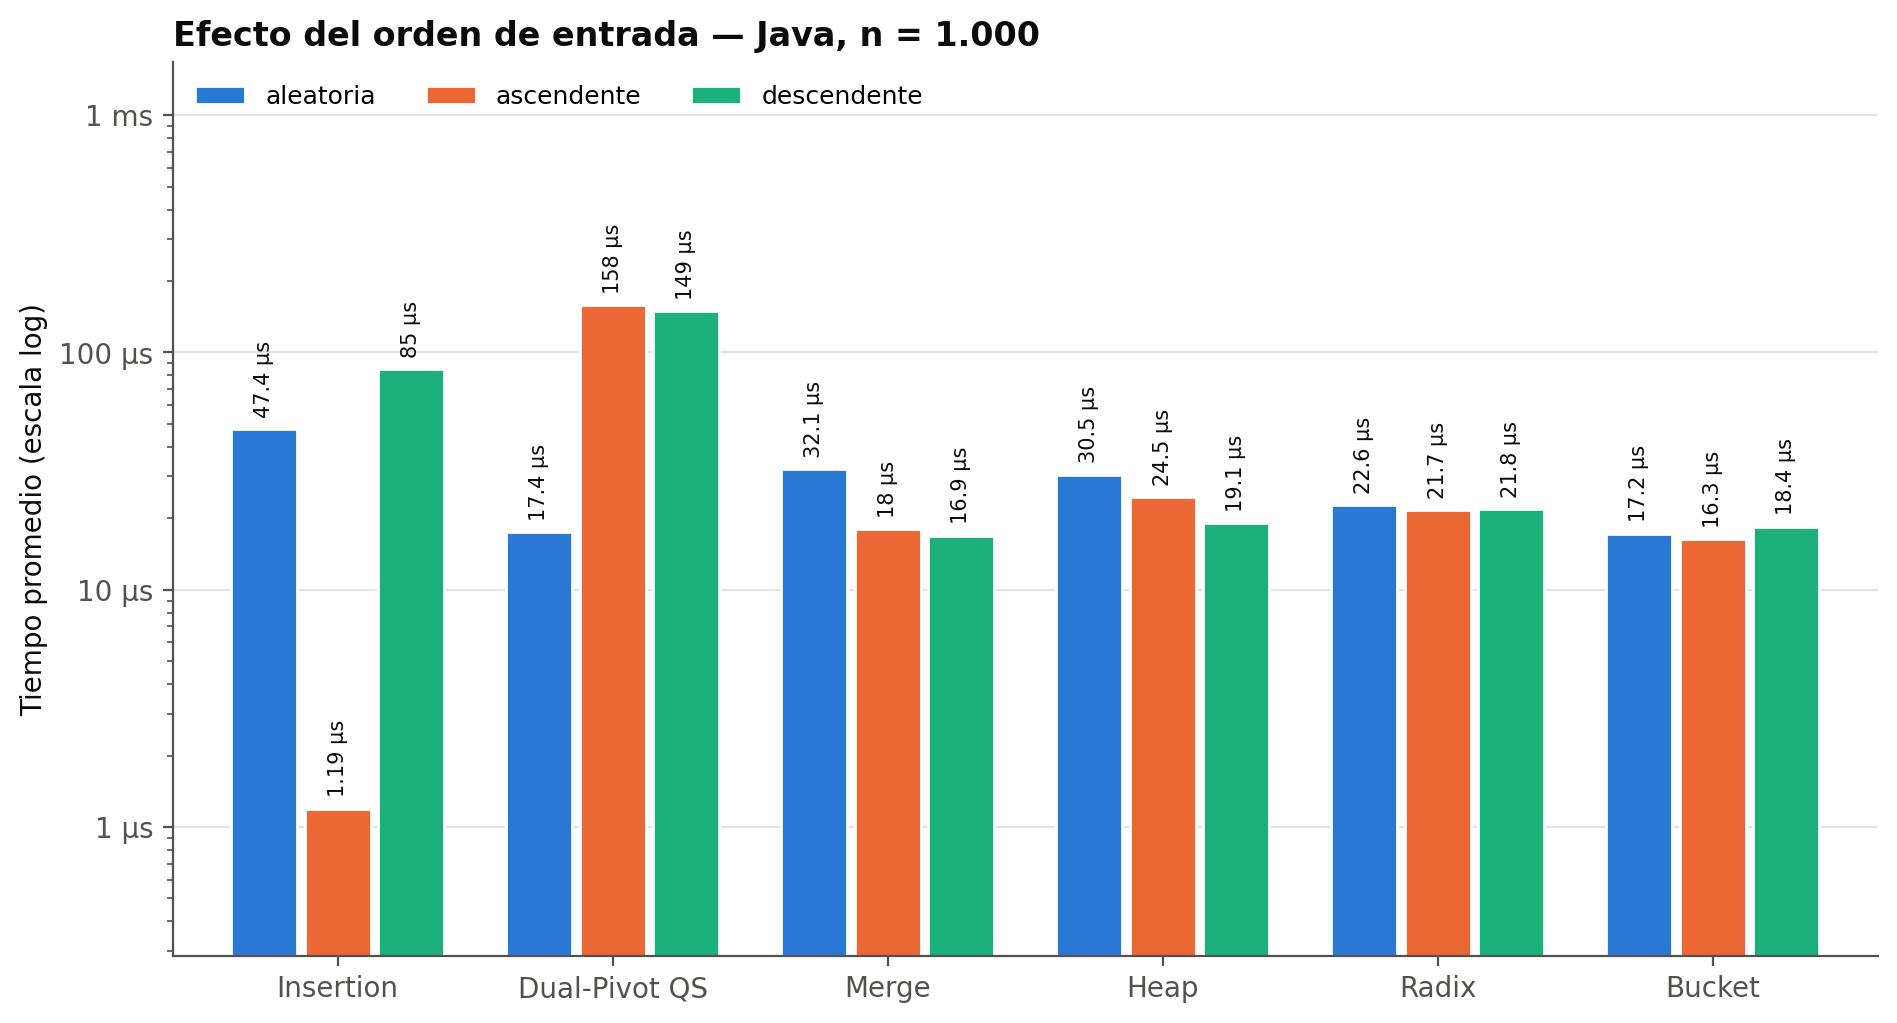
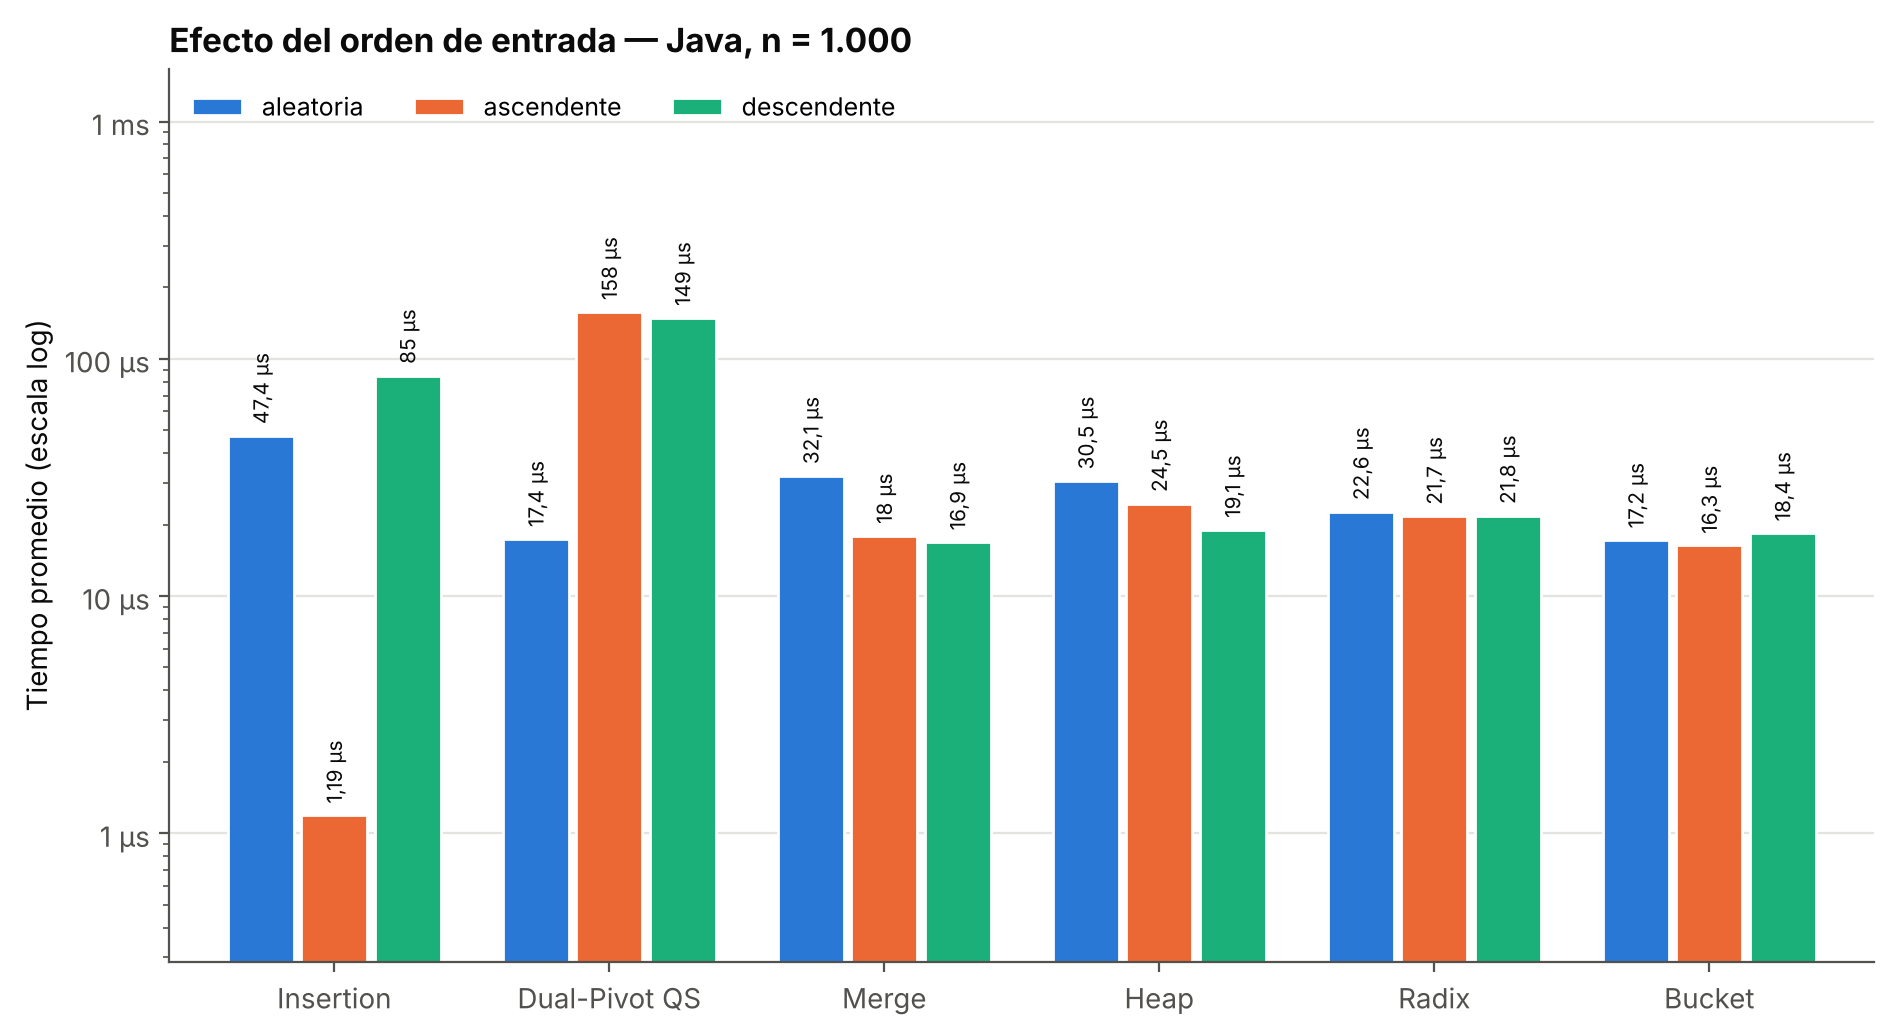
Correcciones de la auditoría al punto 1

diff --git a/python/taller3/generate_data.py b/python/taller3/generate_data.py
@@ -5,7 +5,7 @@ Generador ÚNICO de los datos de prueba (se ejecuta una sola vez).
     python3 -m taller3.generate_data            # genera data/ si no existe
     python3 -m taller3.generate_data --force    # regenera (sobrescribe)
 
-Decisiones de diseño (documéntalas en el informe):
+Decisiones de diseño:
 - Un solo generador para ambos lenguajes: Java NO genera datos, solo los lee.
   Así es imposible que Java y Python midan con conjuntos distintos.
 - Semilla fija (config.SEED) con random.Random (Mersenne Twister), que es
@@ -50,7 +50,7 @@ def main() -> int:
                 if dataset_path(v, n).exists()]
     if existing and not args.force:
         print(f"Los datos ya existen en {config.DATA_DIR} ({len(existing)} archivos).")
-        print("Los datos se generan UNA sola vez. Usa --force solo si de verdad quieres regenerarlos.")
+        print("Los datos se generan una sola vez; para regenerarlos hay que pasar --force.")
         return 0
 
     max_n = max(config.SIZES)

diff --git a/python/taller3/plot_sort.py b/python/taller3/plot_sort.py
@@ -89,15 +89,18 @@ def lookup(rows: list[dict]) -> dict[tuple, dict]:
 
 # ------------------------------------------------------------- formato
 def fmt_time(s: float) -> str:
+    """Tiempo legible con coma decimal, como en el informe (p. ej. 1,37 s)."""
     if s < 1e-3:
-        return f"{s * 1e6:.3g} µs"
-    if s < 1:
-        return f"{s * 1e3:.3g} ms"
-    if s < 120:
-        return f"{s:.3g} s"
-    if s < 7200:
-        return f"{s / 60:.3g} min"
-    return f"{s / 3600:.3g} h"
+        txt = f"{s * 1e6:.3g} µs"
+    elif s < 1:
+        txt = f"{s * 1e3:.3g} ms"
+    elif s < 120:
+        txt = f"{s:.3g} s"
+    elif s < 7200:
+        txt = f"{s / 60:.3g} min"
+    else:
+        txt = f"{s / 3600:.3g} h"
+    return txt.replace(".", ",")
 
 
 def fmt_n(n: int) -> str:

diff --git a/README.md b/README.md
@@ -71,12 +71,12 @@ java -Xms2g -Xmx2g -cp java/out taller3.bench.SortBenchmark          # benchmark
 (cd python && python3 -m taller3.plot_sort)                           # gráficas
 ```
 
-**Duración esperada.** En la máquina donde se validó el flujo (nube, 2 vCPU) la corrida
-completa tomó ≈ 18 min en Java y ≈ 27 min en Python. Casi todo ese tiempo se va en
-Insertion Sort: n = 10⁶ en Java (≈ 1,2 min por ejecución con entrada aleatoria y ≈ 2,3 min
-con descendente) y n = 10⁵ en Python (≈ 3,8 min por ejecución, aleatoria). En un equipo más
-rápido tarda menos. Corre con el cargador conectado y sin usar el equipo: otras
-aplicaciones abiertas agregan ruido a las mediciones.
+**Duración de referencia.** En el equipo donde se hicieron las mediciones del informe
+(MacBook Pro con Apple Silicon, 10 núcleos, macOS) la corrida completa tomó unos 9 min en Java
+y unos 34 min en Python. La mayor parte del tiempo se va en Insertion Sort: con n = 10⁶ en Java
+tarda unos 34 s por ejecución con entrada aleatoria y unos 66 s con descendente; con n = 10⁵
+en Python, unos 2,1 min (aleatoria) y 4,2 min (descendente). Las mediciones deben hacerse con
+el equipo conectado a la corriente y sin otras aplicaciones abiertas, porque agregan ruido.
 
 Corridas parciales para depurar: `--sizes 1000,10000` (Java) / `--sizes 1000 10000` (Python),
 `--algos`, `--variants`, `--reps`, `--limit`, `--out`.
@@ -190,9 +190,9 @@ logarítmico, estimados punteados o rayados, valores visibles sobre las barras) 
   | O(n log n) | 13,3 | 12,5 | 12 |
   | O(n²) | 100 | 100 | 100 |
 
-  Cuando la razón observada se aleje de la teórica, busca la causa en tus propios datos:
-  costos fijos que dominan con n pequeño, el arreglo deja de caber en la caché, JIT o GC
-  (Java), *boxing* (Bucket en Java), etc. Las filas `medido->estimado` reproducen la
+  Cuando la razón observada se aleja de la teórica, las causas habituales son los términos
+  de menor orden y los costos fijos con n pequeño, el tamaño de los datos frente a la caché,
+  el JIT o el GC (Java) y el *boxing* (Bucket Sort en Java). Las filas `medido->estimado` reproducen la
   razón teórica por construcción: no sirven como evidencia, solo muestran la extrapolación.
 - `figures/p1_resumen.csv`: promedio, desviación y coeficiente de variación (CV) de
   cada caso, listo para las tablas del informe. Un CV alto en n = 1.000 es esperable:
